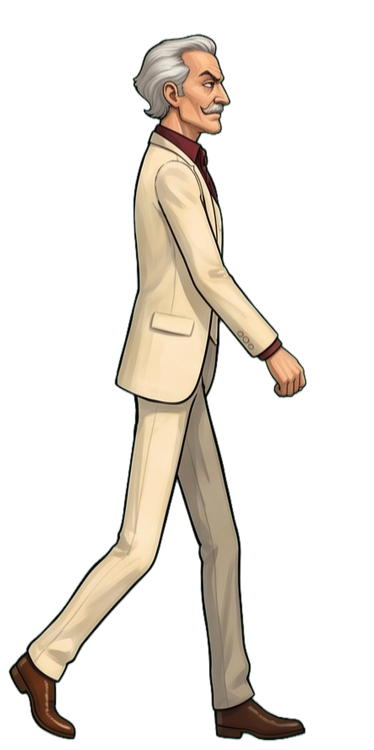
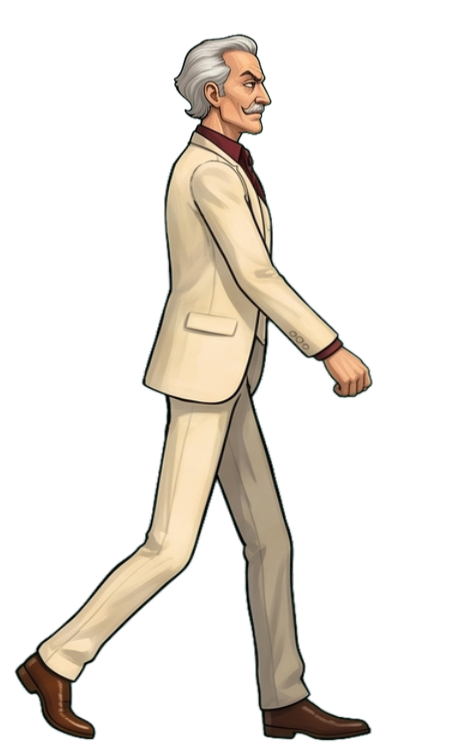
New walks in the game for Vasco, Lacerda, Celeste, Ze, Teixeira and Duarte, as approved on the review page
Lacerda widened x1.2 below the chin after the user's note (scripts/walk_widen.py). Alan and Ines keep their
current walks. Entry 17 in docs/animation_handoff.md.

Claude-Session: https://claude.ai/code/session_01UtGBnvdVMycaw7qyBygjUk

diff --git a/js/story/core.js b/js/story/core.js
@@ -118,9 +118,9 @@
     // vasco: the one-sheet set (scripts/walk_sheet_cast.py)
     vasco_walk6_p1: [0.190, -0.148], vasco_walk6_p3: [0.112], vasco_walk6_p5: [0.028], vasco_walk6_p7: [-0.061],
     vasco_walk6_p9: [0.207, -0.153], vasco_walk6_p11: [0.112], vasco_walk6_p13: [0.030], vasco_walk6_p15: [-0.065],
-    // lacerda: the one-sheet set (scripts/walk_sheet_cast.py)
-    lacerda_walk6_p1: [0.174, -0.176], lacerda_walk6_p3: [0.091], lacerda_walk6_p5: [0.001], lacerda_walk6_p7: [-0.089],
-    lacerda_walk6_p9: [0.172, -0.175], lacerda_walk6_p11: [0.085], lacerda_walk6_p13: [0.001], lacerda_walk6_p15: [-0.091],
+    // lacerda: the one-sheet set (scripts/walk_sheet_cast.py), widened x1.2 below the chin (scripts/walk_widen.py)
+    lacerda_walk6_p1: [0.209, -0.211], lacerda_walk6_p3: [0.109], lacerda_walk6_p5: [0.002], lacerda_walk6_p7: [-0.106],
+    lacerda_walk6_p9: [0.207, -0.211], lacerda_walk6_p11: [0.103], lacerda_walk6_p13: [0.002], lacerda_walk6_p15: [-0.109],
     // celeste: the one-sheet set (scripts/walk_sheet_cast.py)
     celeste_walk6_p1: [0.191, -0.171], celeste_walk6_p3: [0.098], celeste_walk6_p5: [0.014], celeste_walk6_p7: [-0.079],
     celeste_walk6_p9: [0.190, -0.171], celeste_walk6_p11: [0.091], celeste_walk6_p13: [0.015], celeste_walk6_p15: [-0.079],

diff --git a/index.html b/index.html
@@ -98,7 +98,7 @@
 <script src="js/engine/stills.js?v=dc1dd98f"></script>
 <script src="js/engine/saves.js?v=bf99a319"></script>
 <script src="js/engine.js?v=cd1830e0"></script>
-<script src="js/story/core.js?v=8c603e16"></script>
+<script src="js/story/core.js?v=a537e826"></script>
 <script src="js/story/ines.js?v=ecf088f4"></script>
 <script src="js/story/docs.js?v=25cb1ef1"></script>
 <script src="js/story/ch1.js?v=b62e29ec"></script>

diff --git a/scripts/walk_sheet_cast.py b/scripts/walk_sheet_cast.py
@@ -115,10 +115,11 @@ def feet(a, ax, fy, h):
     return sorted(out, reverse=True)
 
 
-def fit(ch):
-    pre, ref, cur, pron, who = CAST[ch]; d = os.path.join(ROOT, f'art/review/{pre}/walk6')
-    figs, floors = split_sheet(os.path.join(d, f'sheet_raw_{SHEET[ch]}.png' if ch in SHEET else 'sheet_raw.png'))
-    for dst, src in REUSE.get(ch, {}).items():
+def fit_poses(ch, sheet, d, reuse=None):
+    """Split one sheet and fit its 8 figures into d/pose<N>.png; returns (W, H, ax, fy, reference meta)."""
+    pre, ref, cur, pron, who = CAST[ch]
+    figs, floors = split_sheet(sheet)
+    for dst, src in (reuse or {}).items():
         i, j = POSES.index(dst), POSES.index(src); figs[i], floors[i] = figs[j], floors[j]
     cur_a = [sprite(k) for k in cur]
     cur_h = float(np.median([box(a)[1] - box(a)[0] for a in cur_a])); cur_head = float(np.median([head(a)[1] for a in cur_a]))
@@ -154,6 +155,22 @@ def fit(ch):
     for n in (1, 9):
         p = os.path.join(d, f'pose{n}.png')
         subprocess.run([sys.executable, os.path.join(ROOT, 'scripts/walk_heel_down.py'), p, p, str(ax), str(fy), str(m['h'])], check=True)
+    return W, H, ax, fy, m
+
+
+def plant_of(n, a, ax, fy, h):
+    """the foot carrying the weight, by the pose (the lowest foot misleads with heels and long skirts): contact 1/9
+    front heel and back foot; down 3/11 the front foot; passing 5/13 the lowest; up 7/15 the back foot"""
+    fts = feet(a, ax, fy, h)
+    if n in (1, 9): return [fts[0][0], fts[-1][0]]
+    if n in (3, 11): return [fts[0][0]]
+    if n in (5, 13): return [min(fts, key=lambda f: f[1])[0]]
+    return [fts[-1][0]]
+
+
+def fit(ch):
+    pre, ref, cur, pron, who = CAST[ch]; d = os.path.join(ROOT, f'art/review/{pre}/walk6')
+    W, H, ax, fy, m = fit_poses(ch, os.path.join(d, f'sheet_raw_{SHEET[ch]}.png' if ch in SHEET else 'sheet_raw.png'), d, REUSE.get(ch))
     # candidates and plant data
     C = json.load(open(os.path.join(ROOT, 'art/review/candidates.json')))
     ids = [f'{pre}_walk6_p{n}' for n in POSES]
@@ -166,17 +183,43 @@ def fit(ch):
         C['candidates'].append({'id': cid, 'char': ch, 'phase': 2, 'kind': 'walk', 'what': f'walk (one-sheet set): pose {n} of the walk chart',
                                 'src': src, 'originals': [f'art/sprites/{ref}.webp'], 'meta': meta,
                                 'wire': {'walkSlot': slot, 'walkBase': ids}})
-        fts = feet(a, ax, fy, m['h'])
-        # the foot carrying the weight, by the pose (the lowest foot misleads with heels and long skirts):
-        # contact 1/9 front heel and back foot; down 3/11 the front foot; passing 5/13 the lowest; up 7/15 the back foot
-        if n in (1, 9): plant[cid] = [fts[0][0], fts[-1][0]]
-        elif n in (3, 11): plant[cid] = [fts[0][0]]
-        elif n in (5, 13): plant[cid] = [min(fts, key=lambda f: f[1])[0]]
-        else: plant[cid] = [fts[-1][0]]
-        print(f'  {cid}: feet {fts}')
+        plant[cid] = plant_of(n, a, ax, fy, m['h'])
     json.dump(C, open(os.path.join(ROOT, 'art/review/candidates.json'), 'w'), indent=1)
     print(f'  plant {ch}: ' + ', '.join(f'{k}: [{", ".join(f"{v:.3f}" for v in vs)}]' for k, vs in plant.items()))
     return plant
+
+
+def library(ch, out):
+    """Every frame the cycle editor on the review page can choose from, fitted, with its meta and plant data:
+    the chosen set (the candidates), the poses of the other Gemini tries, and the walk frames in the game now."""
+    pre, ref, cur, pron, who = CAST[ch]; d = os.path.join(ROOT, f'art/review/{pre}/walk6'); lib = []
+    C = {c['id']: c for c in json.load(open(os.path.join(ROOT, 'art/review/candidates.json')))['candidates']}
+    core = open(os.path.join(ROOT, 'js/story/core.js')).read()
+    import re
+    P = {k: [float(x) for x in v.split(',')] for k, v in re.findall(r'(\w+_walk6_p\d+): \[([^\]]+)\]', core)}
+    for n in POSES:
+        k = f'{pre}_walk6_p{n}'; mm = C[k]['meta']
+        lib.append({'id': k, 'group': 'new set', 'pose': n, 'src': C[k]['src'], 'meta': {x: mm[x] for x in ('ax', 'fy', 'h')}, 'plant': P[k]})
+    tries = sorted(f for f in os.listdir(d) if re.match(r'sheet_raw_\d+\.png$', f))
+    for f in tries:
+        t = int(re.findall(r'\d+', f)[0])
+        if t == SHEET.get(ch): continue
+        td = os.path.join(out, f'{pre}_try{t}'); os.makedirs(td, exist_ok=True)
+        try: W, H, ax, fy, m = fit_poses(ch, os.path.join(d, f), td)
+        except SystemExit as e: print(f'{ch} try {t}: skipped ({e})'); continue
+        for n in POSES:
+            k = f'{pre}_try{t}_p{n}'; a = np.asarray(Image.open(os.path.join(td, f'pose{n}.png')))
+            lib.append({'id': k, 'group': f'try {t}', 'pose': n, 'src': os.path.join(td, f'pose{n}.png'),
+                        'meta': {'ax': round(ax, 1), 'fy': fy, 'h': m['h']}, 'plant': plant_of(n, a, ax, fy, m['h'])})
+    for k in dict.fromkeys(cur):
+        mm = SPR[k]; a = sprite(k)
+        if mm.get('facesLeft'): a = a[:, ::-1]; ax = a.shape[1] - mm['ax']
+        else: ax = mm['ax']
+        fts = feet(np.ascontiguousarray(a), ax, mm['fy'], mm['h'])
+        lib.append({'id': k, 'group': 'in the game now', 'pose': None, 'src': f'art/sprites/{k}.webp',
+                    'meta': {'ax': mm['ax'], 'fy': mm['fy'], 'h': mm['h'], 'facesLeft': bool(mm.get('facesLeft'))},
+                    'plant': [min(fts, key=lambda f: f[1])[0]] if fts else [0.0]})
+    return lib
 
 
 if __name__ == '__main__':
@@ -185,3 +228,6 @@ if __name__ == '__main__':
         pre, ref, cur, pron, desc = CAST[ch]; d = os.path.join(ROOT, f'art/review/{pre}/walk6'); os.makedirs(d, exist_ok=True)
         if cmd == 'generate': generate(ref, desc, d, pron, flip=bool(SPR[ref].get('facesLeft')))
         elif cmd == 'fit': fit(ch)
+        elif cmd == 'library':
+            out = os.environ.get('LIB_OUT', '/tmp/walk_library'); os.makedirs(out, exist_ok=True)
+            json.dump(library(ch, out), open(os.path.join(out, f'{ch}.json'), 'w'))

diff --git a/scripts/walk_widen.py b/scripts/walk_widen.py
@@ -1,0 +1,19 @@
+# A walk set painted too slim for its character (Lacerda's one-sheet walk, by the user's note: "he and his legs are too
+# slim in comparison to other sprites"): widen the figure below the chin by k about the head's x, fading in over
+# 24 px under the chin so the head keeps its painted shape. Works on the fitted pose PNGs in place; the canvas grows
+# on both sides (the anchor x moves right by the printed pad).
+#   python3 scripts/walk_widen.py <dir with pose<N>.png> <k> <chin as a share of the figure height>
+import sys, numpy as np, cv2
+from PIL import Image
+d, k, chin = sys.argv[1], float(sys.argv[2]), float(sys.argv[3])
+for n in (1, 3, 5, 7, 9, 11, 13, 15):
+    p = f'{d}/pose{n}.png'; a = np.asarray(Image.open(p).convert('RGBA')).astype(np.float32); H, W = a.shape[:2]
+    m = a[..., 3] > 128; ys = np.nonzero(m.any(1))[0]; t, b = ys.min(), ys.max()
+    hr = [np.nonzero(m[j])[0] for j in range(t, t + int((b - t) * 0.09))]; cx = float(np.mean([(r.min() + r.max()) / 2 for r in hr if len(r)]))
+    pad = int(W * (k - 1) / 2) + 4; a = np.pad(a, ((0, 0), (pad, pad), (0, 0))); cx += pad; W2 = a.shape[1]
+    yy, xx = np.mgrid[0:H, 0:W2].astype(np.float32); cut = t + chin * (b - t)
+    kk = 1 + (k - 1) * np.clip((yy - cut) / 24, 0, 1)                       # 1 at the chin, k from 24 px below
+    sx = (cx + (xx - cx) / kk).astype(np.float32)
+    out = np.clip(cv2.remap(a, sx, yy, cv2.INTER_LINEAR), 0, 255).astype(np.uint8)
+    Image.fromarray(out, 'RGBA').save(p)                                     # the canvas grows by pad on each side
+    print(f'pose{n}: widened x{k} below row {cut:.0f}; canvas +{pad} px each side (add it to the anchor x)')

diff --git a/docs/animation_handoff.md b/docs/animation_handoff.md
@@ -194,6 +194,19 @@ session lived in the session's scratchpad and are gone; everything that matters 
    - **Review page** (same link as Alan's, now one tab per character): https://claude.ai/artifact/RoCMGALM4FXgJWdTKrg3v9
      db docs `decision/<char>` (Alan's stays `decision/alan_walk6`). On approve: mark that character's 8
      `<prefix>_walk6_p*` ids approved in art/review/approvals.json (walkAll: all 8 or none), smoke, commit.
+17. **Six new walks approved and in the game** (the user, on the review page, 2026-10-20 21:30-21:32): Vasco, Lacerda,
+   Celeste, Zé, Teixeira, Duarte; their 48 ids are approved in art/review/approvals.json. Alan and Inês: "still not
+   right", so they keep their current walks (a cycle editor on the review page comes next, see below).
+   Lacerda's note: "The walk is good but he and his legs are too slim in comparison to other sprites". His walk was
+   the slimmest of the cast against his current frames (chest-height width about half; the others 0.6-1.0; his old
+   frames are three-quarter views, the new ones strict profile). `scripts/walk_widen.py art/review/lacerda/walk6 1.2
+   0.15` widens every pose x1.2 below the chin (fading in over 24 px, head as painted), about the head's x, onto a
+   canvas 41 px wider each side (candidate meta ax +41, w); plant data recomputed (steps 0.100-0.111, even 0.90).
+   Re-running `walk_sheet_cast.py fit lacerda` would undo the widening: run walk_widen.py again after it.
+   `walk_sheet_cast.py` refactored (fit_poses / plant_of / `library`, which fits the other tries for the editor);
+   re-fitting Zé and Celeste reproduced the committed frames byte for byte.
+   Checked: in the game the six walk with their new cycles and step lengths; smoke laundry, quayfish, lacthreat,
+   semuseum, vascostore, visitcop, visitguitar, celeste, bench, walklab pass. Not deployed.
 
 ## Where things stand (session handoff, 2026-10-20)
 
